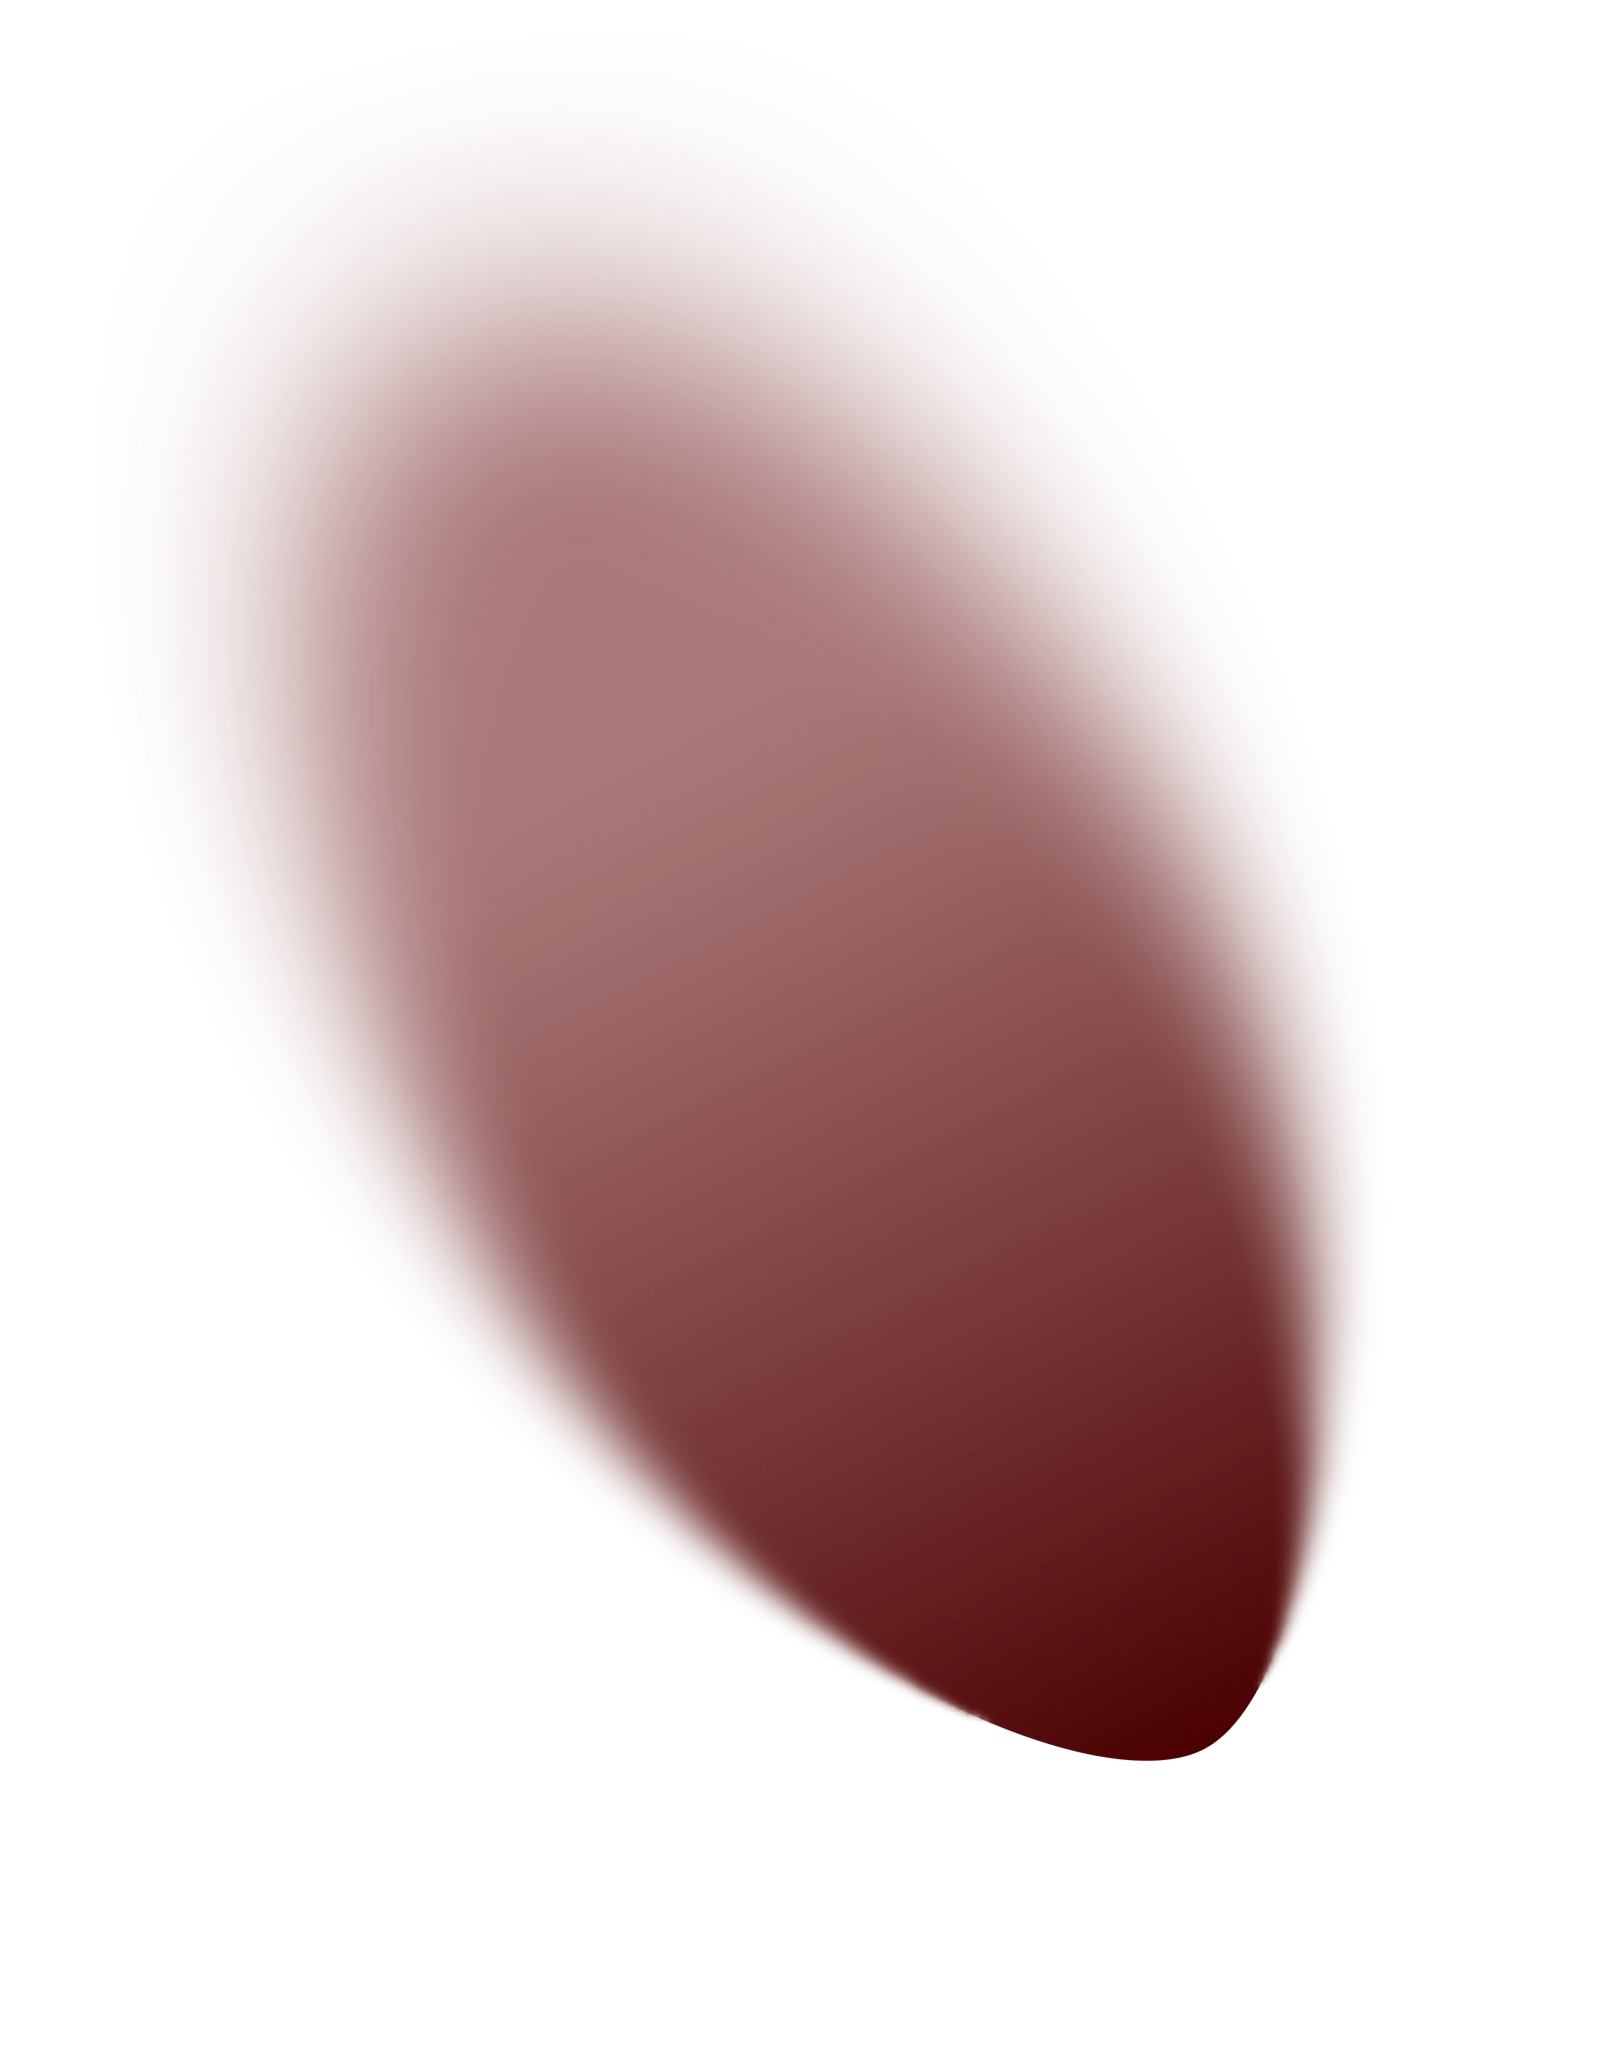
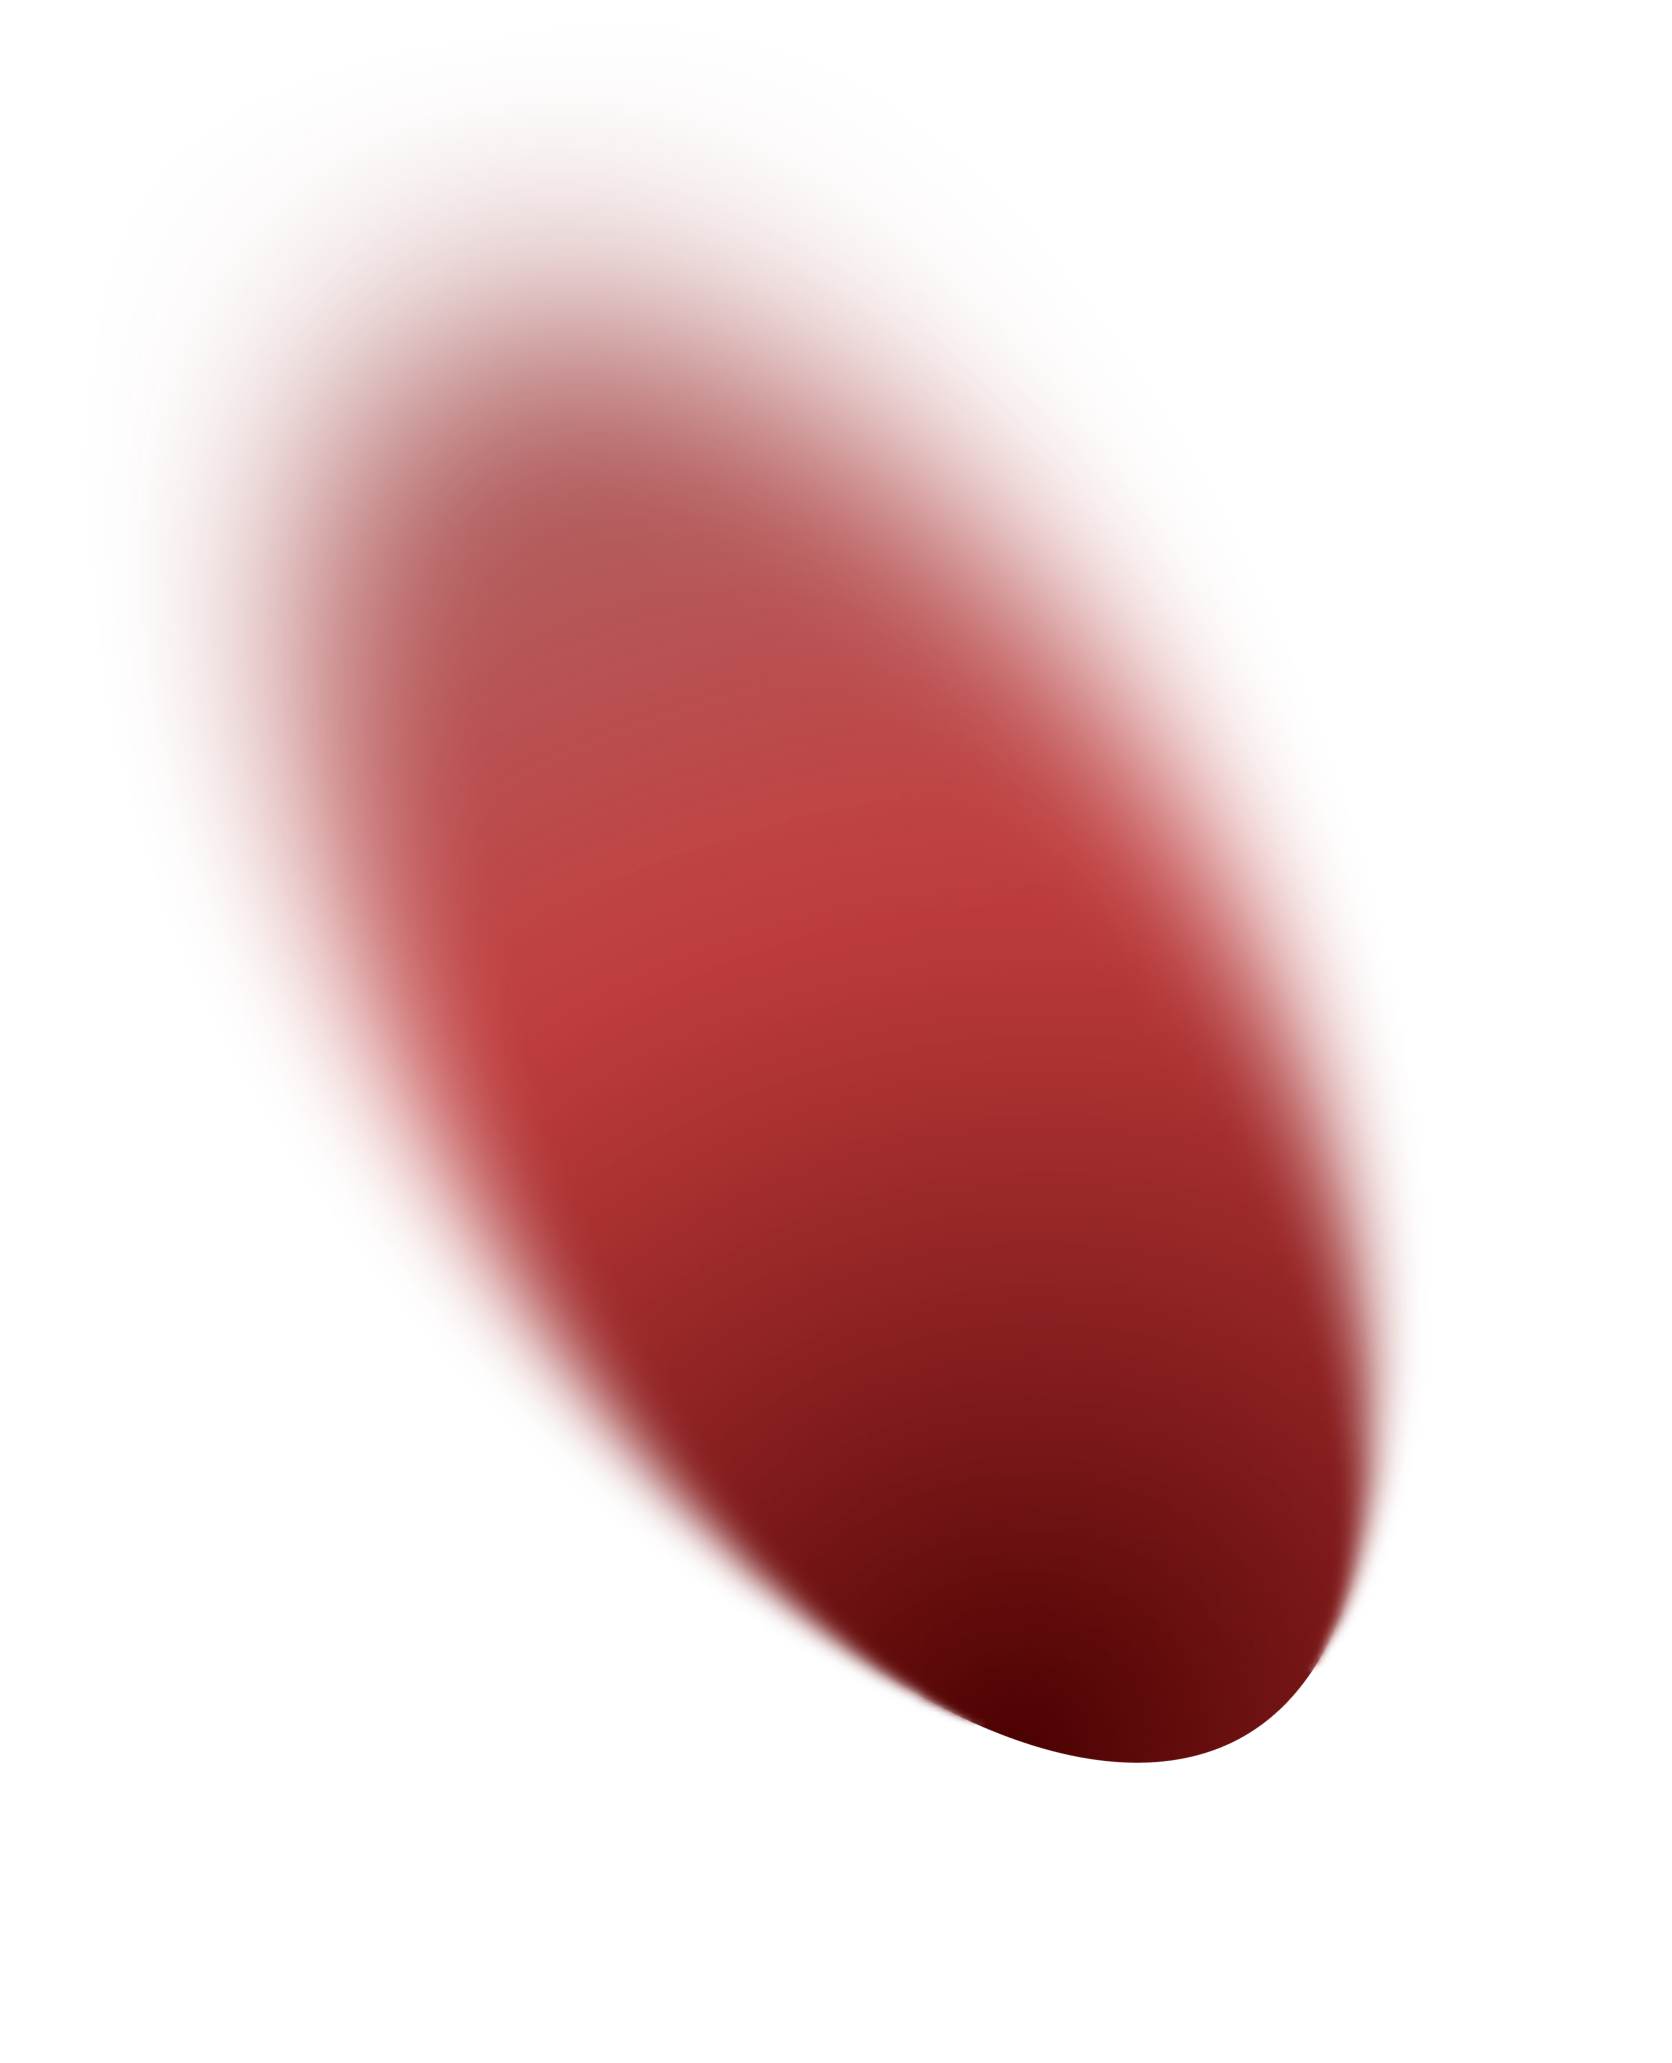
heart images added

Changed region(s): [[0.1855, 0.2174, 0.8349, 0.8695]]

diff --git a/project2/script.js b/project2/script.js
@@ -191,7 +191,11 @@ document.addEventListener("DOMContentLoaded", function () {
     return restingHeartRate * 2;
   }
 
-  ageValue = 0;
+  ageValue = null;
+
+  if (ageValue === null) {
+    ageDisplay.textContent = "not provided";
+  }
 
   ageInput.addEventListener("input", () => {
     ageValue = ageInput.value;
@@ -199,6 +203,9 @@ document.addEventListener("DOMContentLoaded", function () {
   });
 
   activityLevel = null;
+  if (activityLevel === null) {
+    actDisplay.textContent = "not provided";
+  }
 
   activityRadios.forEach((radio) => {
     radio.addEventListener("change", () => {
@@ -217,8 +224,8 @@ document.addEventListener("DOMContentLoaded", function () {
       selector: ".shape1",
       images: {
         resting: {
-          A: "./shapes_active/shape1a.png",
-          B: "./shapes_active/shape1b.png",
+          A: "./shapes_resting/shape1a.png",
+          B: "./shapes_resting/shape1b.png",
         },
         active: {
           A: "./shapes_active/shape1a.png",
@@ -254,8 +261,8 @@ document.addEventListener("DOMContentLoaded", function () {
       selector: ".shape2",
       images: {
         resting: {
-          A: "./shapes_active/shape2a.png",
-          B: "./shapes_active/shape2b.png",
+          A: "./shapes_resting/shape2a.png",
+          B: "./shapes_resting/shape2b.png",
         },
         active: {
           A: "./shapes_active/shape2a.png",
@@ -289,8 +296,24 @@ document.addEventListener("DOMContentLoaded", function () {
     },
     {
       selector: ".shape3",
-      svgA: "./shapes_active/shape3a.png",
-      svgB: "./shapes_active/shape3b.png",
+      images: {
+        resting: {
+          A: "./shapes_resting/shape3a.png",
+          B: "./shapes_resting/shape3b.png",
+        },
+        active: {
+          A: "./shapes_active/shape3a.png",
+          B: "./shapes_active/shape3b.png",
+        },
+        stressed: {
+          A: "./shapes_stressed/shape3a.png",
+          B: "./shapes_stressed/shape3b.png",
+        },
+        sleeping: {
+          A: "./shapes_sleeping/shape3a.png",
+          B: "./shapes_sleeping/shape3b.png",
+        },
+      },
       A: {
         x: -200,
         y: 500,
@@ -310,8 +333,24 @@ document.addEventListener("DOMContentLoaded", function () {
     },
     {
       selector: ".shape4",
-      svgA: "./shapes_active/shape4a.png",
-      svgB: "./shapes_active/shape4a.png",
+      images: {
+        resting: {
+          A: "./shapes_resting/shape4a.png",
+          B: "./shapes_resting/shape4b.png",
+        },
+        active: {
+          A: "./shapes_active/shape4a.png",
+          B: "./shapes_active/shape4b.png",
+        },
+        stressed: {
+          A: "./shapes_stressed/shape4a.png",
+          B: "./shapes_stressed/shape4b.png",
+        },
+        sleeping: {
+          A: "./shapes_sleeping/shape4a.png",
+          B: "./shapes_sleeping/shape4b.png",
+        },
+      },
       A: {
         x: 170,
         y: 470,
@@ -331,8 +370,24 @@ document.addEventListener("DOMContentLoaded", function () {
     },
     {
       selector: ".shape5",
-      svgA: "./shapes_active/shape5a.png",
-      svgB: "./shapes_active/shape5b.png",
+      images: {
+        resting: {
+          A: "./shapes_resting/shape5a.png",
+          B: "./shapes_resting/shape5b.png",
+        },
+        active: {
+          A: "./shapes_active/shape5a.png",
+          B: "./shapes_active/shape5b.png",
+        },
+        stressed: {
+          A: "./shapes_stressed/shape5a.png",
+          B: "./shapes_stressed/shape5b.png",
+        },
+        sleeping: {
+          A: "./shapes_sleeping/shape5a.png",
+          B: "./shapes_sleeping/shape5b.png",
+        },
+      },
       A: {
         x: -140,
         y: 200,

diff --git a/project2/index.html b/project2/index.html
@@ -214,7 +214,7 @@
             </div>
             <div class="sidebar-area">
                 <div class="metrics-container">
-                    <p>Current metrics</p>
+                    <!-- <p>Current metrics</p> -->
                     <div class="metric">
                         <div>Resting heart rate: <span id="rate-display"></span></div>
                     </div>
@@ -266,24 +266,24 @@
             </div>
             <div id="heart-container">
                 <div class="shape shape1">
-                    <img class="shape-img img1A" src="./shapes/shape1a.png" />
-                    <img class="shape-img img1B" src="./shapes/shape1b.png"/>
+                    <img class="shape-img img1A" src="./shapes_resting/shape1a.png" />
+                    <img class="shape-img img1B" src="./shapes_resting/shape1b.png"/>
                 </div>
                 <div class="shape shape2">
-                    <img class="shape-img img2A" src="./shapes/shape2a.png" />
-                    <img class="shape-img img2B" src="./shapes/shape2b.png"/>
+                    <img class="shape-img img2A" src="./shapes_resting/shape2a.png" />
+                    <img class="shape-img img2B" src="./shapes_resting/shape2b.png"/>
                 </div>
                 <div class="shape shape3">
-                    <img class="shape-img img3A" src="./shapes/shape3a.png" />
-                    <img class="shape-img img3B" src="./shapes/shape3b.png"/>
+                    <img class="shape-img img3A" src="./shapes_resting/shape3a.png" />
+                    <img class="shape-img img3B" src="./shapes_resting/shape3b.png"/>
                 </div>
                 <div class="shape shape4">
-                    <img class="shape-img img4A" src="./shapes/shape4a.png" />
-                    <img class="shape-img img4B" src="./shapes/shape4a.png"/>
+                    <img class="shape-img img4A" src="./shapes_resting/shape4a.png" />
+                    <img class="shape-img img4B" src="./shapes_resting/shape4b.png"/>
                 </div>
                 <div class="shape shape5">
-                    <img class="shape-img img5A" src="./shapes/shape5a.png" />
-                    <img class="shape-img img5B" src="./shapes/shape5b.png"/>
+                    <img class="shape-img img5A" src="./shapes_resting/shape5a.png" />
+                    <img class="shape-img img5B" src="./shapes_resting/shape5b.png"/>
                 </div>
             </div>
         </div>

diff --git a/project2/main.css b/project2/main.css
@@ -131,8 +131,10 @@ body.popup-open .sidebar-area, body.popup-open .settings-button {
 
 .sidebar-area {
     position: absolute;
+    display: flex;
+    flex-direction: column;
     left: 10px;
-    top: 84px;
+    top: 96px;
 }
 
 .states-container {
@@ -140,7 +142,7 @@ body.popup-open .sidebar-area, body.popup-open .settings-button {
     flex-direction: column;
     gap: 0;
     position: relative;
-    padding-left: 20px;
+    padding-left: 30px;
     margin-top: 20px;
 }
 .about-icon {
